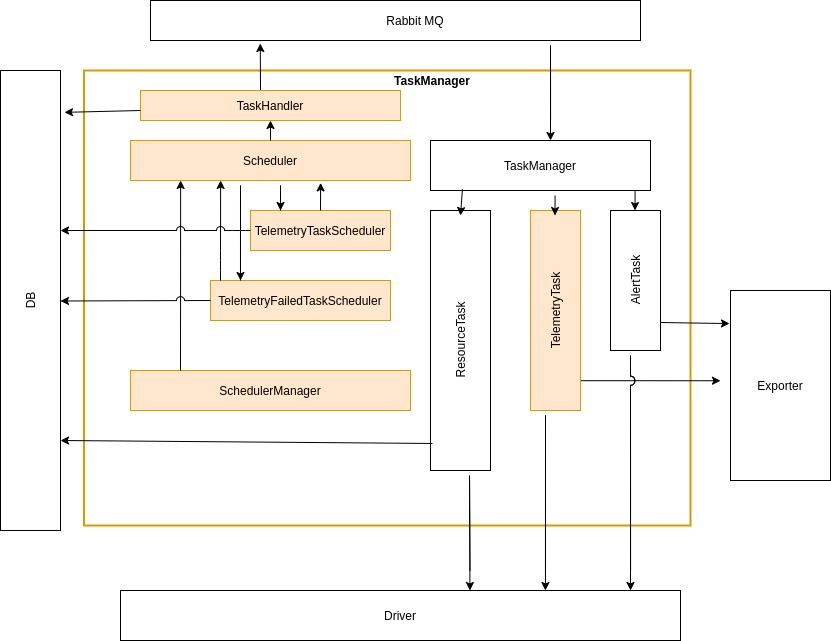
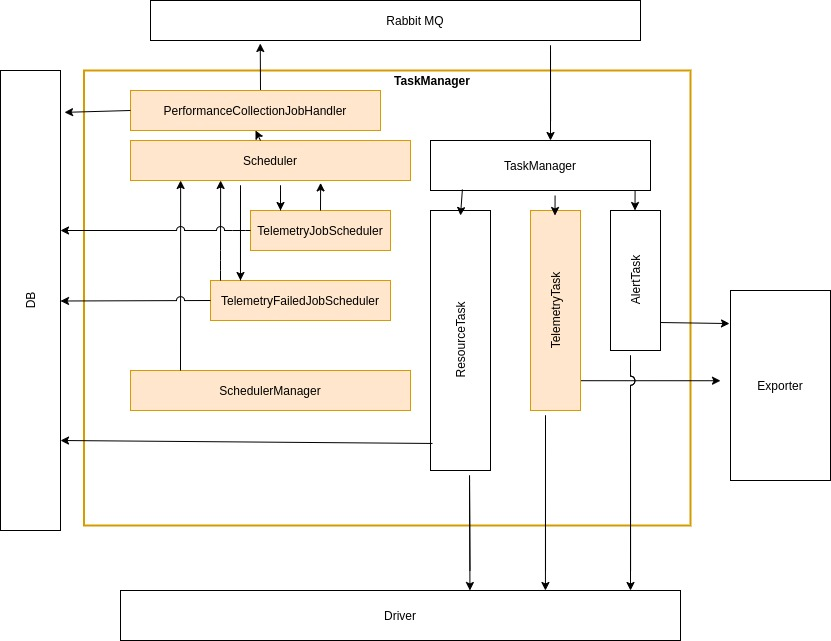
updating module architecture

Changed region(s): [[0.1504, 0.1248, 0.4813, 0.2184], [0.2708, 0.4368, 0.4513, 0.4992], [0.3008, 0.3432, 0.4513, 0.3744]]

diff --git a/arch-design/delfin/PerfomanceMontoringDesign.md b/arch-design/delfin/PerfomanceMontoringDesign.md
@@ -59,39 +59,47 @@ Scope of architecture discussion in this design doc is limited to task manager m
 
 ### Module Architecture
 
-![Usecase](./Resources/task_manager_arch.jpg)
+![Architecture](./Resources/task_manager_arch.jpg)
 
 Highlighted blocks are the additions to task manager for task scheduling and task handling.
 
 #### SchedulerManager
 
- A factory for creating periodic scheduling tasks. 
- Currently identified  periodic scheduler tasks  are TelemteryTaskScheduler, FailedTaskSheduler . 
+ A factory for creating periodic scheduling jobs. 
+ Currently identified  periodic scheduler jobs  are TelemteryJobcheduler, FailedJobSheduler . 
 
-#### TelemteryTaskScheduler
+#### TelemteryJobScheduler
 
-Create scheduled tasks for Metrics collection and add to scheduler. Creation of the task is based on Task table in DB.
+Create scheduled jobs for Metrics collection and add to scheduler. Creation of the job is based on Task table in DB.
+Scope of this scheduler are
+* schedule job for each entries in task table
+* update scheduled jobs when there is a change in task table
+* remove schedule jobs for when some tasks are deleted.
 
 
-#### TelemetryFailedTaskScheduler
+#### TelemetryFailedJobScheduler
 
-Create scheduled tasks for failed metric collections. Creation of the task is based on FailedTask table from DB.
+Create scheduled job for failed metric collections. Creation of the job is based on FailedTask table from DB.
+Scope of this scheduler are
+* schedule job for each failed tasks in FailedTask table
+* remove schedule jobs for when some corresponding  tasks are deleted or retry limit exceeded.
+
 
 
 #### Scheduler
 
-A task scheduler library that runs in a thread inside task manager application. Periodic scheduler should use this to set periodic running jobs.
+A task scheduler library that runs in a thread inside task manager application. Periodic schedulers should use this to set periodic running jobs.
 
-#### TaskHandler
+#### PerformanceCollectionJobHandler
 
 
-Receives jobs from scheduler and post the message in RabbitMQ
+Receives a call back from scheduler for performance collection task for a period and posts the tasks in message queue.  This module also updates the status of task in DB.
 
 
 #### TelemtryTask
 
 
-Telemery task executor which initiates the collect request to driver and pushes data to exporter.
+Telemetry task  is the actual task executor which initiates the collect request to driver and pushes data to exporter.
 
 ### Architecture Tenets
 **North-bound API** :- REST interface to delfin
